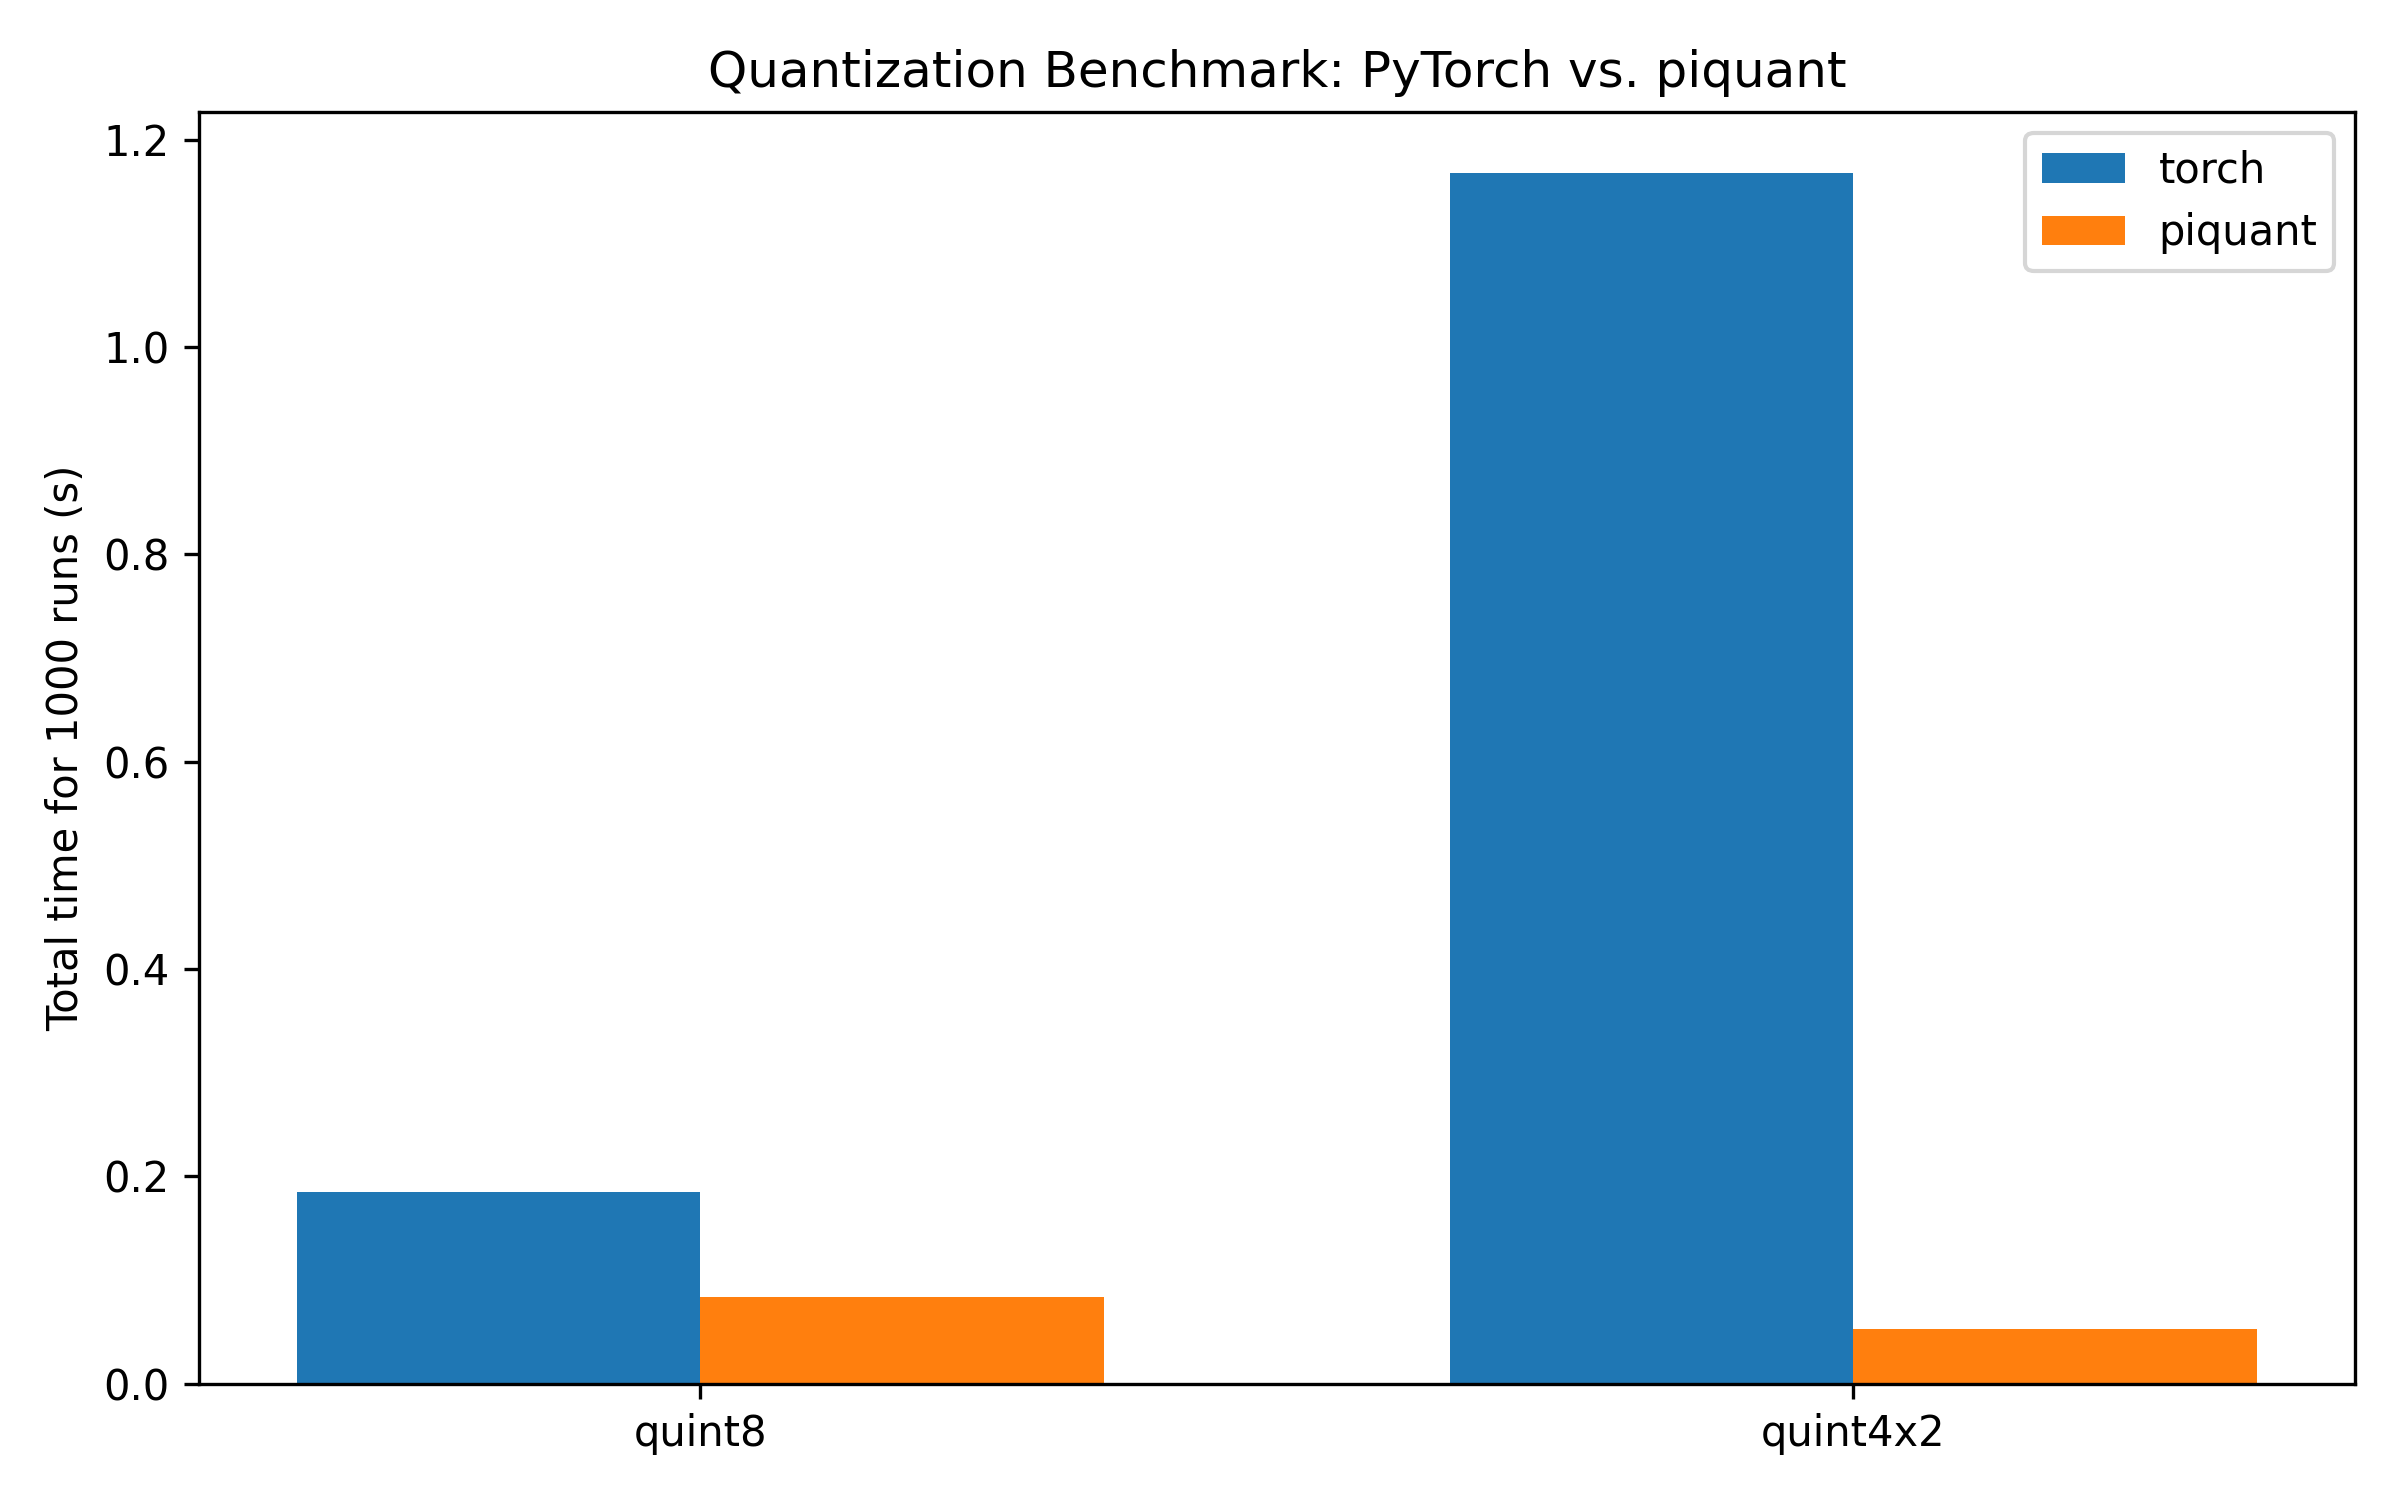
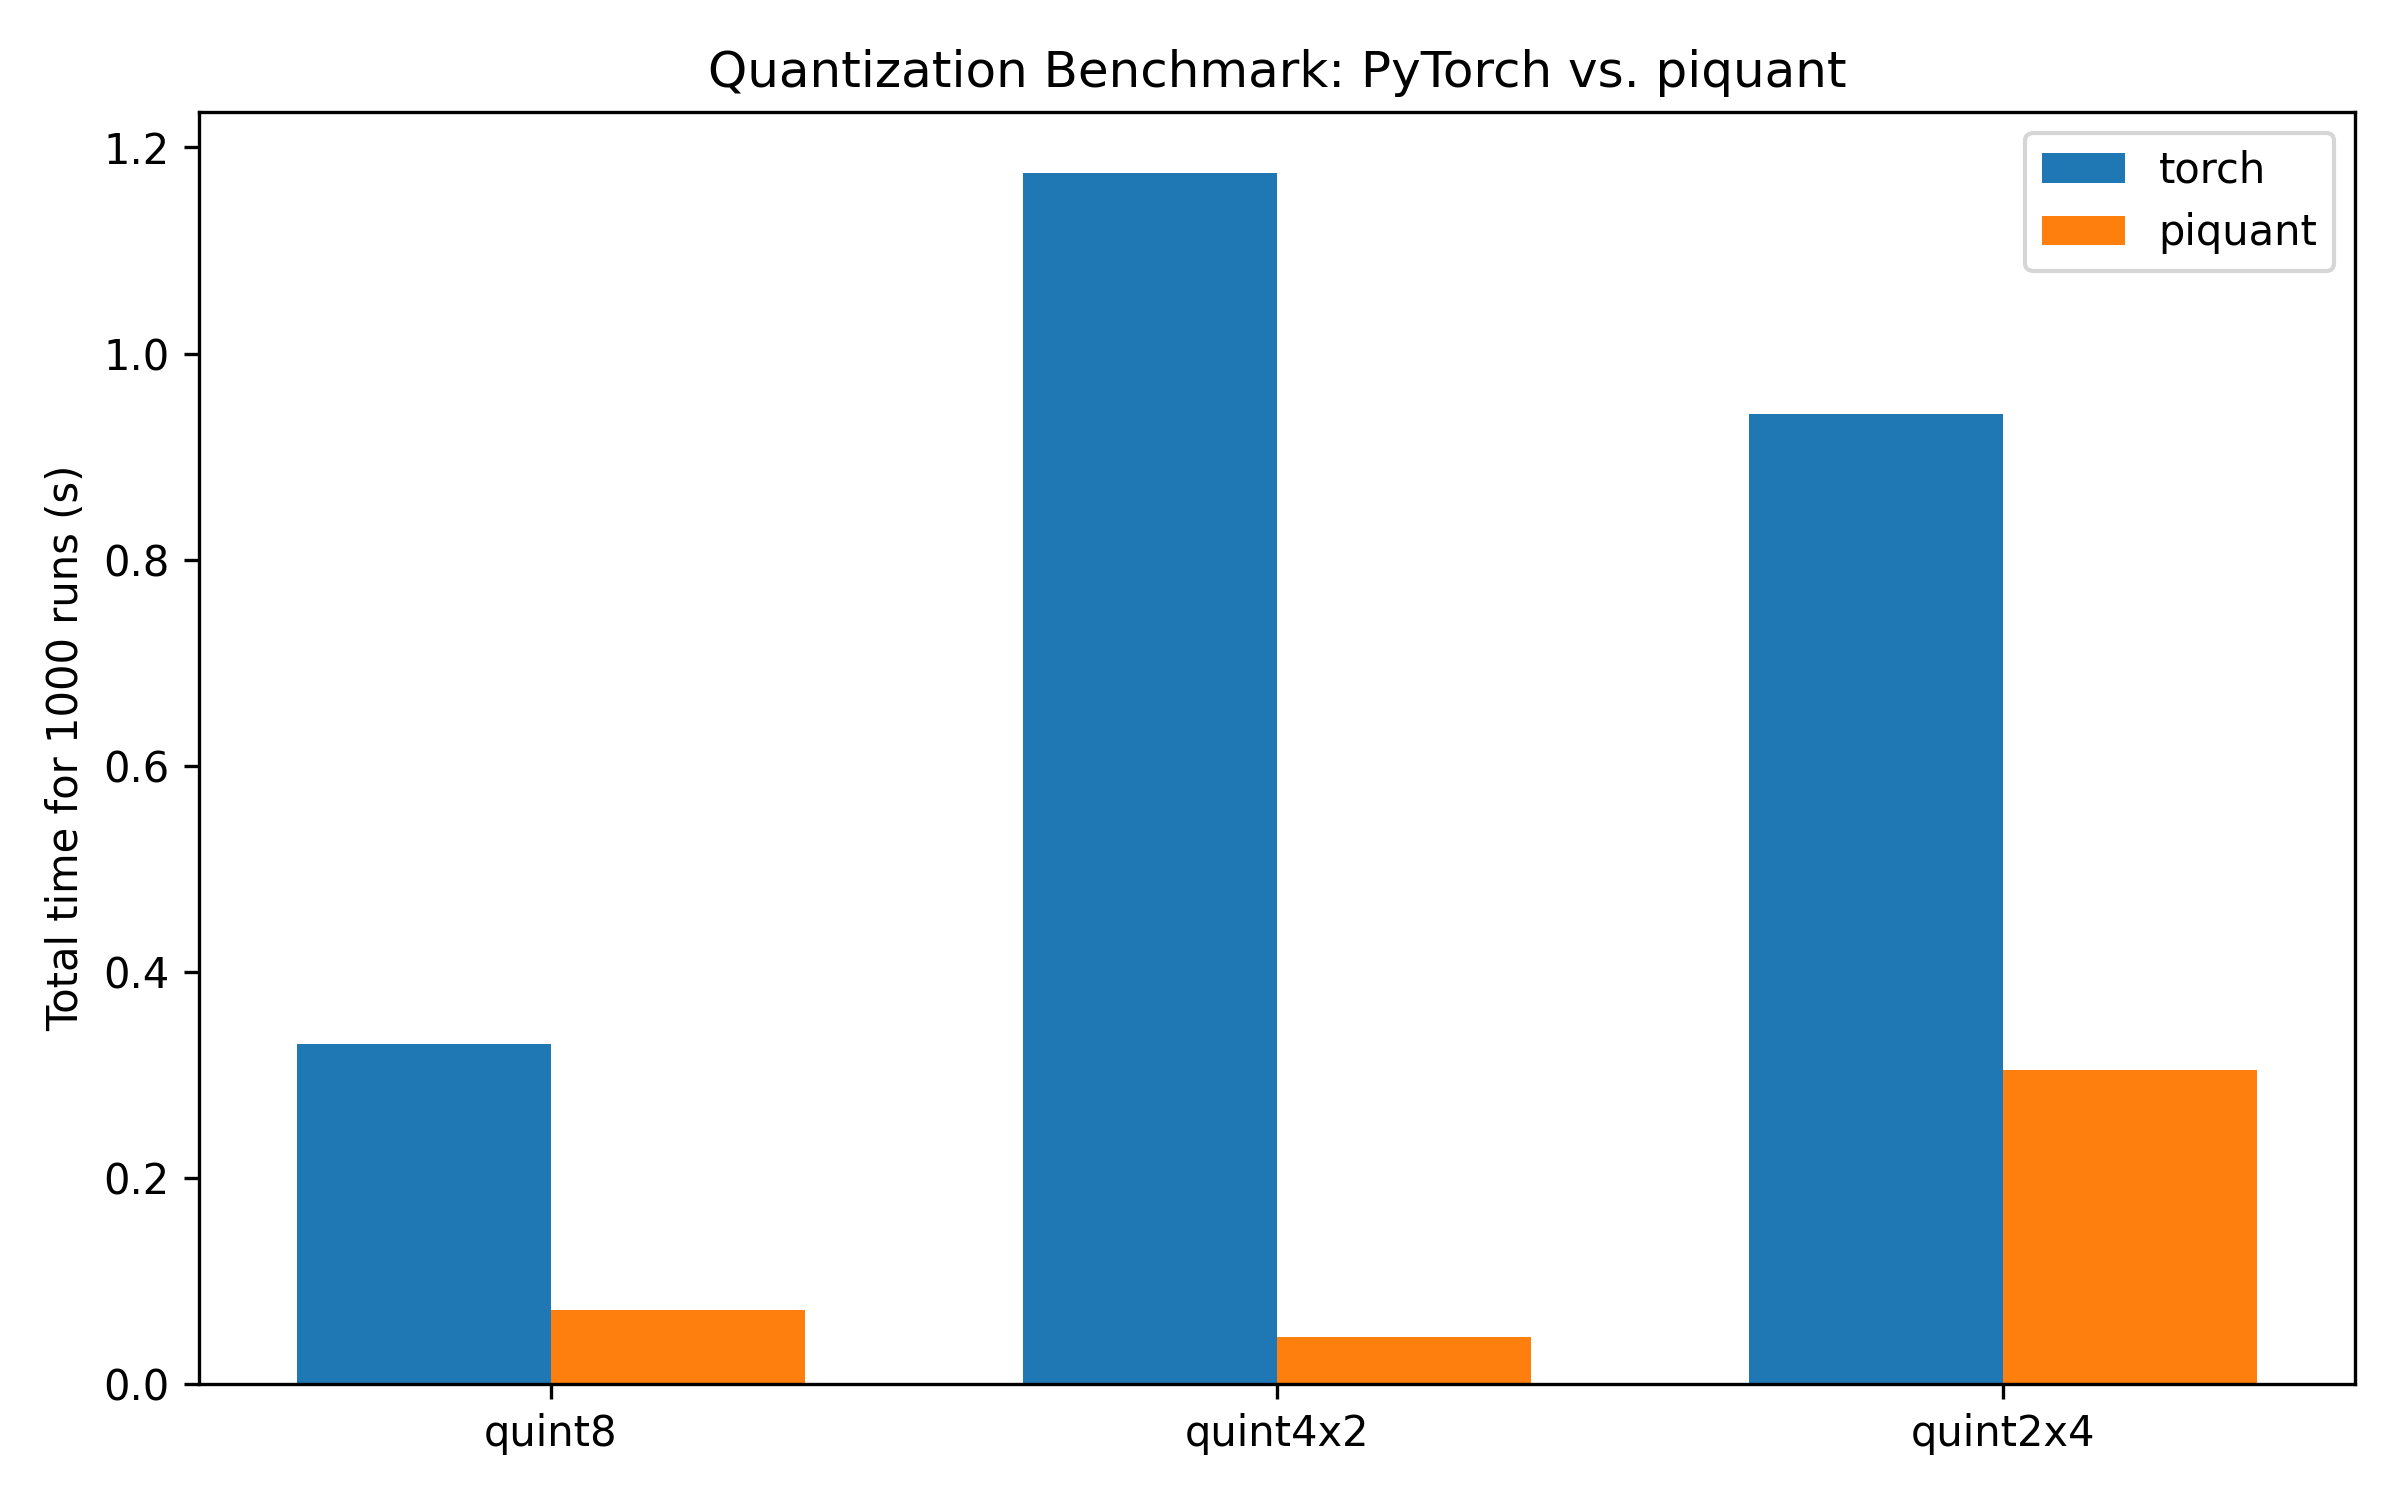
Uint2 improvements and fixes

diff --git a/test/quant.cpp b/test/quant.cpp
@@ -121,6 +121,67 @@ template <const std::uint8_t IDX, typename T>
         } \
     }
 
+#define test_quant_int2(ti, to, rnd, is_stochastic, is_signed) \
+    TEST(quantize, quantize_##ti##_to_##to##_##rnd) { \
+        std::mt19937 gen {0x9032002}; \
+        std::uniform_real_distribution<fp32_t> dist {-1.0, 1.0}; \
+        \
+        for (std::size_t n {}; n < iters; ++n) { \
+            std::cout << "Iteration " << n << std::endl; \
+            fp32_t scale {std::uniform_real_distribution<fp32_t>{0.1, 1.0}(gen)}; \
+            std::size_t numel {std::uniform_int_distribution<std::size_t>{5000, 1'5000}(gen)}; \
+            std::size_t numel_out {std::is_same_v<uint2_t, to> ? (numel+3)>>2 : numel}; \
+            std::int32_t zero_point {std::is_same_v<uint2_t, to> ? std::uniform_int_distribution<std::int32_t>{-1, 2}(gen) : \
+                    std::uniform_int_distribution<std::int32_t>{-128, 127}(gen)}; \
+            \
+            std::vector<ti> data_in {}; \
+            std::vector<to> data_out_naive {}; \
+            std::vector<to> data_out {}; \
+            data_in.resize(numel); \
+            data_out.resize(numel_out); \
+            data_out_naive.resize(numel_out); \
+            std::ranges::generate(data_in, [&] { return dist(gen); }); \
+            quantize_naive<ti, to, piquant::round_mode::rnd>(data_in, data_out_naive, scale, zero_point); \
+            piquant::context ctx {std::max(1u, std::thread::hardware_concurrency())}; \
+            ctx.quantize_generic<ti, to>(data_in, data_out, scale, zero_point, piquant::round_mode::rnd); \
+            for (std::size_t i {}; i < numel_out; ++i) { \
+                bool eq {eq = data_out[i] == data_out_naive[i]}; \
+                std::int32_t a {unpack_nibble<0>(data_out[i], is_signed)}; \
+                std::int32_t b {unpack_nibble<1>(data_out[i], is_signed)}; \
+                std::int32_t a_naive {unpack_nibble<0>(data_out_naive[i], is_signed)}; \
+                std::int32_t b_naive {unpack_nibble<1>(data_out_naive[i], is_signed)}; \
+                if (is_stochastic) { \
+                    eq |= std::abs(a - a_naive) <= stochastic_epsilon; \
+                    eq |= std::abs(b - b_naive) <= stochastic_epsilon; \
+                } else { \
+                    eq = eq && (a == a_naive) && (b == b_naive); \
+                } \
+                if (!eq) { \
+                    std::cout << "Mismatch at index " << i << ": " << "(" << a << ", " << b << ") != (" << a_naive << ", " << b_naive << ") -> " << (std::int32_t)(data_out[i].bits) << " != " << (std::int32_t)(data_out_naive[i].bits) << std::endl; \
+                    std::cout << "Input: " << static_cast<fp32_t>(data_in[i]) << std::endl; \
+                    std::cout << "Data in: ["; \
+                    for (std::size_t j {}; j < numel; ++j) { \
+                        std::cout << static_cast<fp32_t>(data_in[j]) << " "; \
+                    } \
+                    std::cout << "]" << std::endl; \
+                    std::cout << "Data out (f): ["; \
+                    for (std::size_t j {}; j < numel_out; ++j) { \
+                        std::cout << static_cast<std::int32_t>(data_out[j].bits) << " "; \
+                    } \
+                    std::cout << "]" << std::endl; \
+                    std::cout << "Data out (n): ["; \
+                    for (std::size_t j {}; j < numel_out; ++j) { \
+                        std::cout << static_cast<std::int32_t>(data_out_naive[j].bits) << " "; \
+                    } \
+                    std::cout << "]" << std::endl; \
+                    std::cout << "Num el out: " << numel_out << std::endl; \
+                    std::cout << "Num el in: " << numel << std::endl; \
+                    ASSERT_TRUE(eq); \
+                } \
+            } \
+        } \
+    }
+
 test_quant_int4(fp32_t, uint4_t, nearest, false, false)
 test_quant_int4(fp32_t, uint4_t, stochastic, true, false)
 test_quant_int4(bfp16_t, uint4_t, nearest, false, false)

diff --git a/python/benchmark/benchmark.py b/python/benchmark/benchmark.py
@@ -19,6 +19,7 @@ NUMEL: int = 1000000
 QUANT_DTYPES_TO_BENCH: list[torch.dtype] = [
     torch.quint8,
     torch.quint4x2,
+    torch.quint2x4
 ]
 
 def quantize_torch(t: torch.Tensor, scale: float, zp: int, dtype: torch.dtype) -> torch.tensor:
@@ -63,7 +64,11 @@ for torch_d in QUANT_DTYPES_TO_BENCH:
         dq_piquant = piquant.torch.dequantize(results_piquant[i], scale=scale, zero_point=zp, dtype=torch.float32)
         assert dq_torch.numel() == dq_piquant.numel()
         assert dq_torch.dtype == dq_piquant.dtype
-        assert torch.allclose(dq_torch, dq_piquant, atol=1e-1)
+        if not torch.allclose(dq_torch, dq_piquant, atol=1e-1):
+            print(f"Results differ for dtype {torch_d} at run {i}")
+            for j in range(dq_torch.numel()):
+                if not torch.isclose(dq_torch[j], dq_piquant[j], atol=1e-1):
+                    print(f"  Index {j}: torch={dq_torch[j]}, piquant={dq_piquant[j]}")
     print(f'{dtype_labels[-1]:<10} | torch: {torch_time:.6f}s | piquant: {piquant_time:.6f}s')
 
 

diff --git a/test/dequant.cpp b/test/dequant.cpp
@@ -29,7 +29,7 @@ using namespace piquant;
             data_in.resize(numel); \
             quantized.resize(numel_out); \
             std::ranges::generate(data_in, [&] { return dist(gen); }); \
-            piquant::context ctx {std::max(1u, 4u)}; \
+            piquant::context ctx {4}; \
             auto [scale, zero_point] {ctx.compute_quant_config_from_data(data_in, dtype_traits<to>::type_code)}; \
             ctx.quantize_generic<ti, to>(data_in, quantized, scale, zero_point, piquant::round_mode::rnd); \
             std::vector<ti> dequantized {}; \

diff --git a/python/benchmark/throughput_avg.py b/python/benchmark/throughput_avg.py
@@ -9,7 +9,7 @@ torch.set_num_threads(mp.cpu_count())
 TOTAL_GIB = 4
 ITERATIONS = 10
 SRC_DTYPE = torch.bfloat16
-Q_DTYPE = torch.quint4x2
+Q_DTYPE = torch.quint2x4
 OUT_DTYPE = torch.bfloat16
 
 B_PER_ELEM = torch.tensor([], dtype=SRC_DTYPE).element_size()
